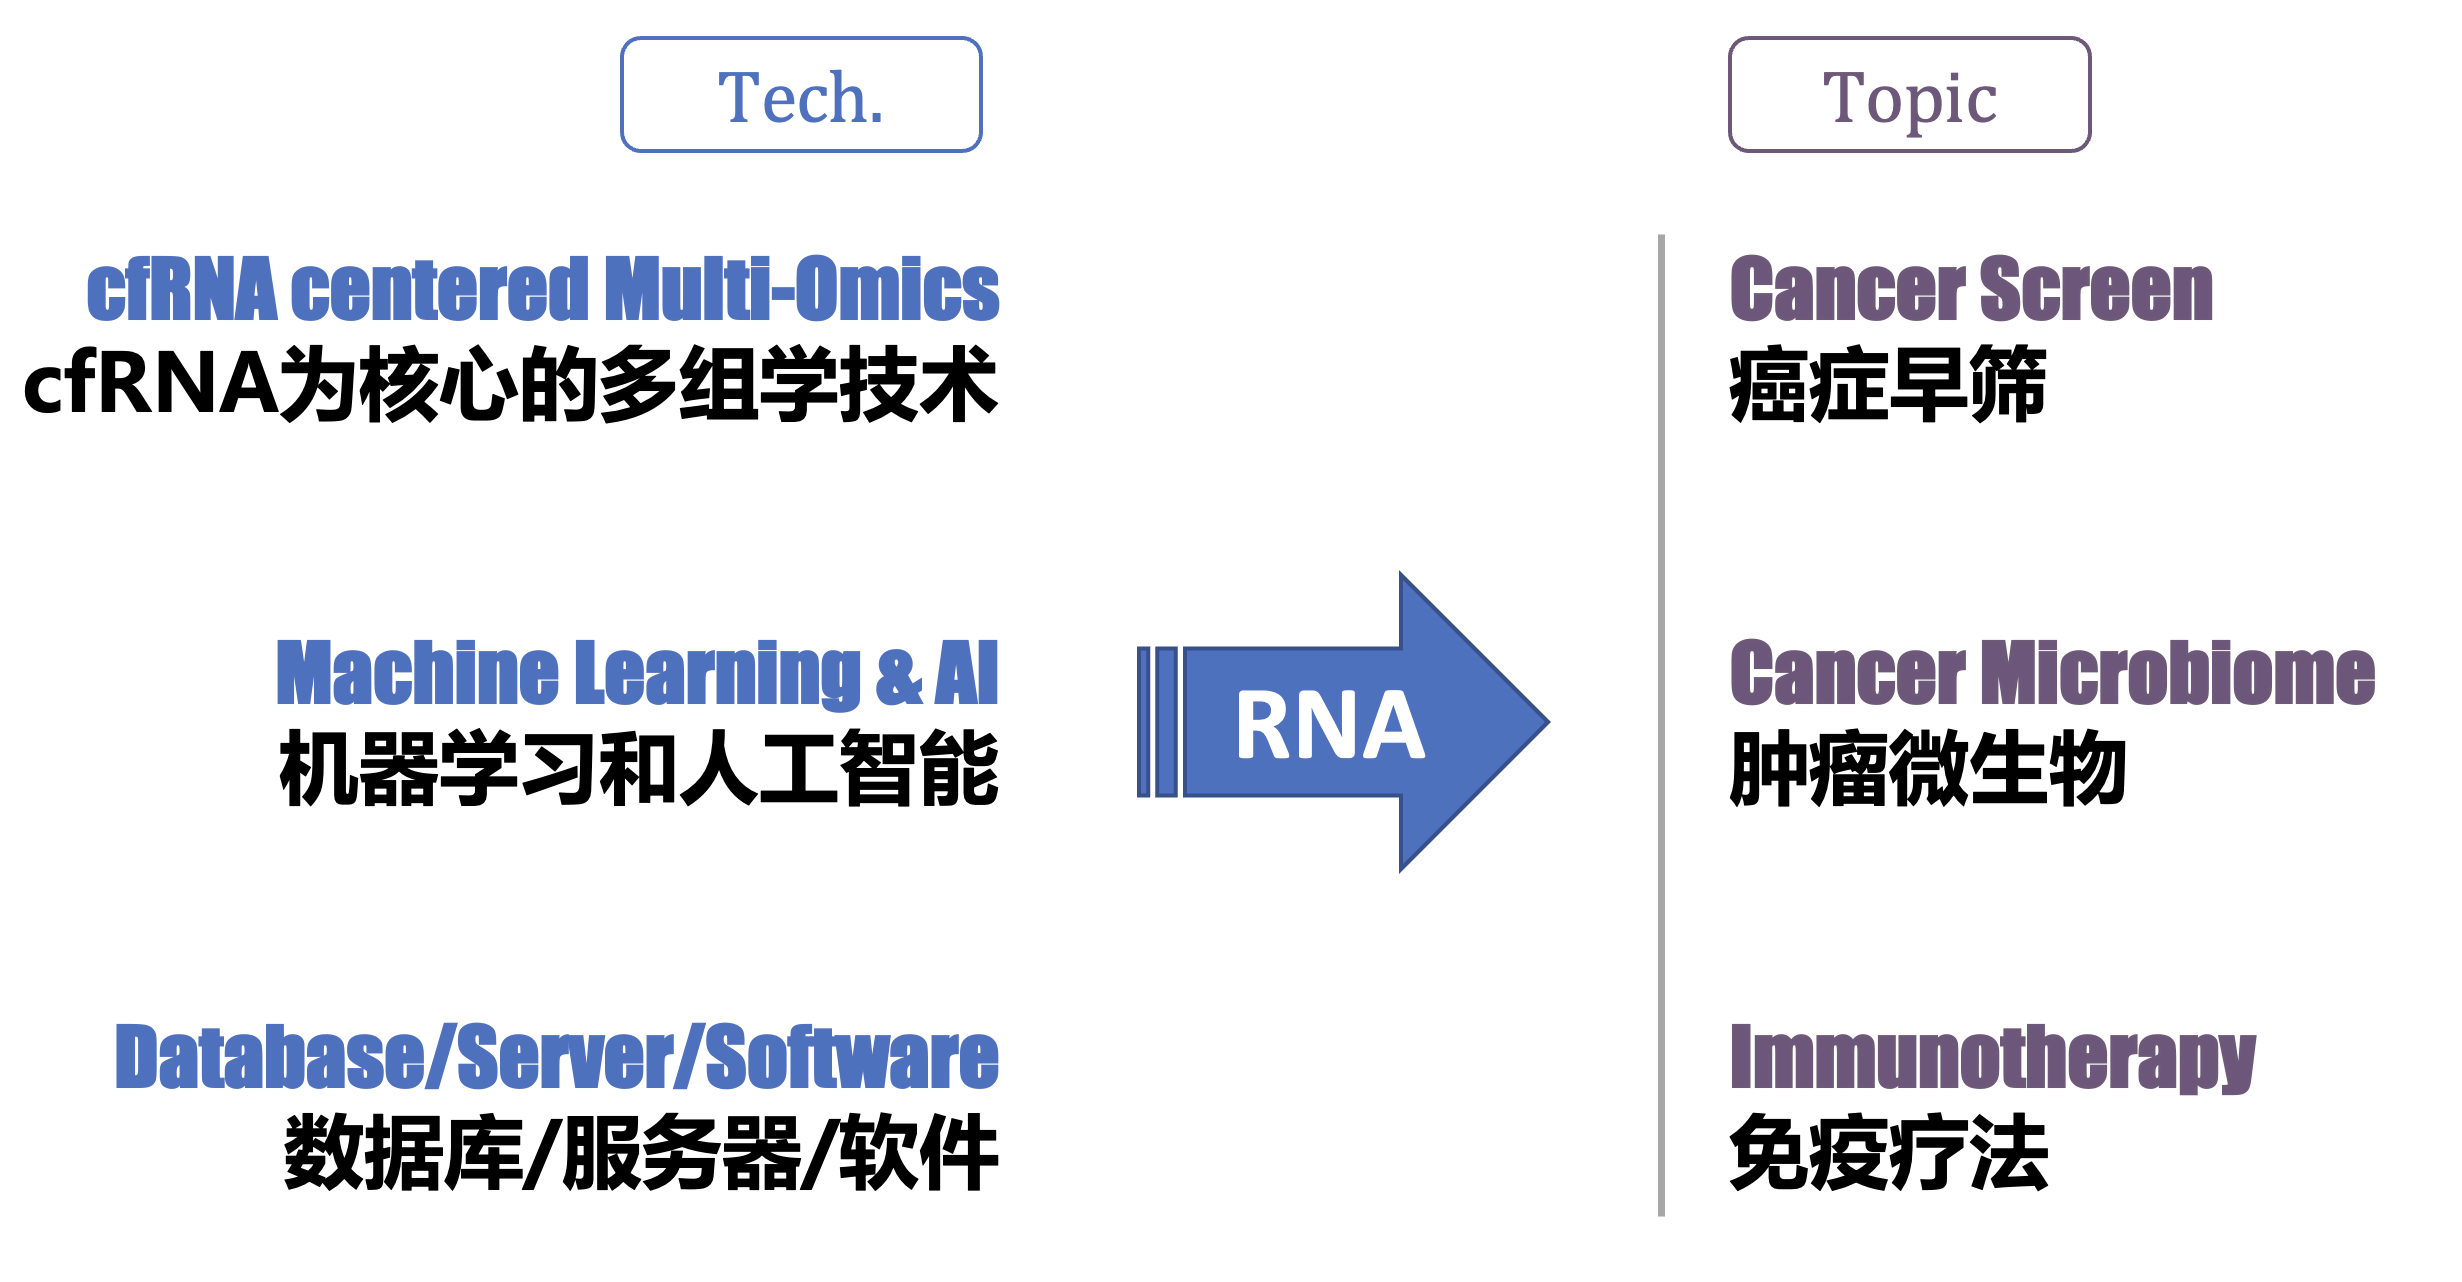
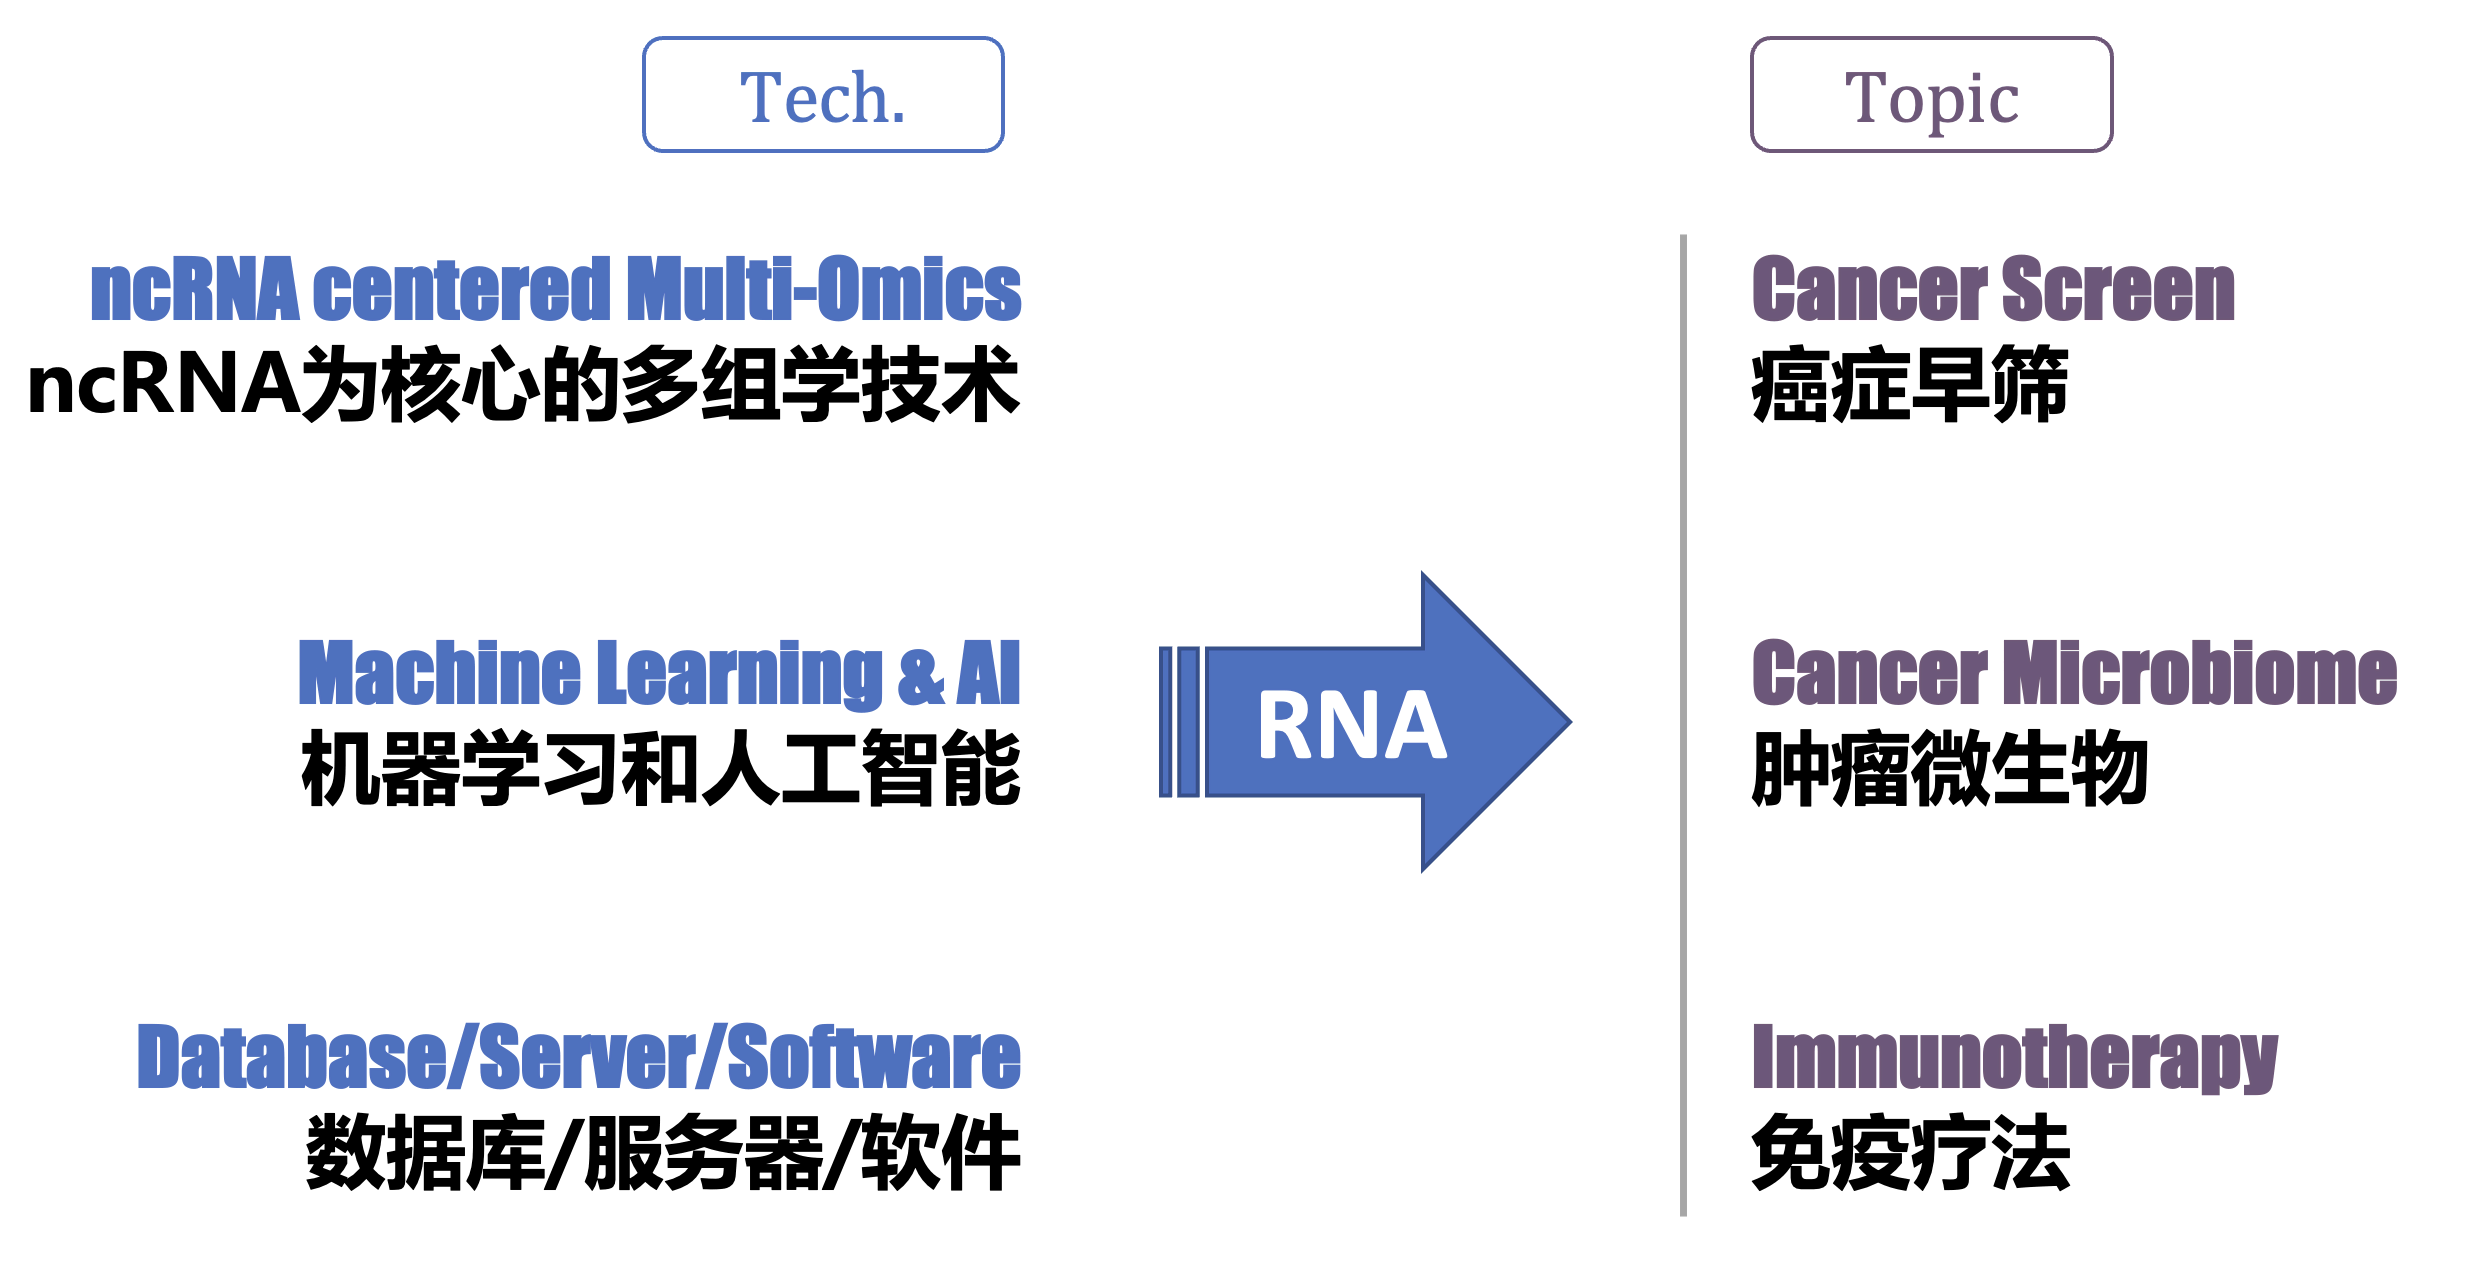
update

diff --git a/docs/projects/index.md b/docs/projects/index.md
@@ -73,15 +73,16 @@ Omics data, especially those from body fluid, are sparse and heterogenous. There
 
 ### 4. Applications for Cancer & Immunotherapy
 
-We develop bioinformatics methods to integrate multi-omics data (e.g., cfRNA/exRNA, cfDNA and its methylation, sEV protein, etc), which aims to explain development of complex diseases (e.g., cancer, immune related diseases) based on an integrative, multi-dimensional level. We will first collect published data as a multi-omics database, and then we will explore deep learning, transfer learning, similarity network fusion and other bioinformatics analysis techniques for these paired and unpaired multi-omics data. Subsequently, we will sequence multi-omics data in cancer plasma samples using the latest sequencing technology; and develop a multi-dimensional model as a multi-molecular markers for non-invasive cancer screen, cancer microbiome and immunotherapy studies. 
+We develop bioinformatics methods to integrate multi-omics data for RNA, noncoding RNA (ncRNA) in particular, DNA and its methylation, EV protein. We aim to explain development of complex diseases (e.g., cancer, immune related diseases) based on an integrative, multi-dimensional level. For instance, we first collect published data as a multi-omics database, and then we will explore deep learning, transfer learning, similarity network fusion and other bioinformatics analysis techniques for these paired and unpaired multi-omics data. Subsequently, we will sequence multi-omics data in cancer plasma samples using the latest sequencing technology; and develop a multi-dimensional model as a multi-molecular markers for non-invasive cancer screen, cancer microbiome and immunotherapy studies. 
 
-我们探索新的生物信息学方法，分析和整合病人血液中的exRNA/cfRNA、cfDNA及其甲基化、sEV（如外泌体）蛋白等体液多组学数据，从一个系统性的多分子层面揭示复杂疾病（如癌症, 免疫相关疾病）的发生发展规律。我们将首先收集发表数据构建体液多组学数据库，接着我们将基于这个数据库针对配对和不配对的多组学数据探索深度学习、迁移学习、相似网络融合等生物信息分析技术，构建多模态模型，开发用于疾病无创检测的多分子组合标志物，进行癌症微生物、癌症筛查和免疫治疗等方面的研究。
+我们探索新的生物信息学方法，分析和整合RNA (尤其是noncoding RNA)、DNA及其甲基化、外泌体蛋白等多组学数据，从一个系统性的多分子层面揭示复杂疾病（如癌症, 免疫相关疾病）的发生发展规律。例如，我们首先收集发表数据构建体液多组学数据库，接着我们将基于这个数据库针对配对和不配对的多组学数据探索深度学习、迁移学习、相似网络融合等生物信息分析技术，构建多模态模型，开发用于疾病无创检测的多分子组合标志物，进行癌症微生物、癌症筛查和免疫治疗等方面的研究。
 
 <div align="middle">
 <img src="research.webp" style="zoom:60%;" />
 <br>
-<small>We apply cfRNA-focused genomics and bioinformatics technologies to precision medicine, e.g., cancer microbiome, cancer screen and immunotherapy.</small>
+<small>We apply noncoding RNA (ncRNA) focused genomics and bioinformatics technologies to precision medicine, e.g., cancer microbiome, cancer screen and immunotherapy.</small>
 </div>
+
 
 
 
